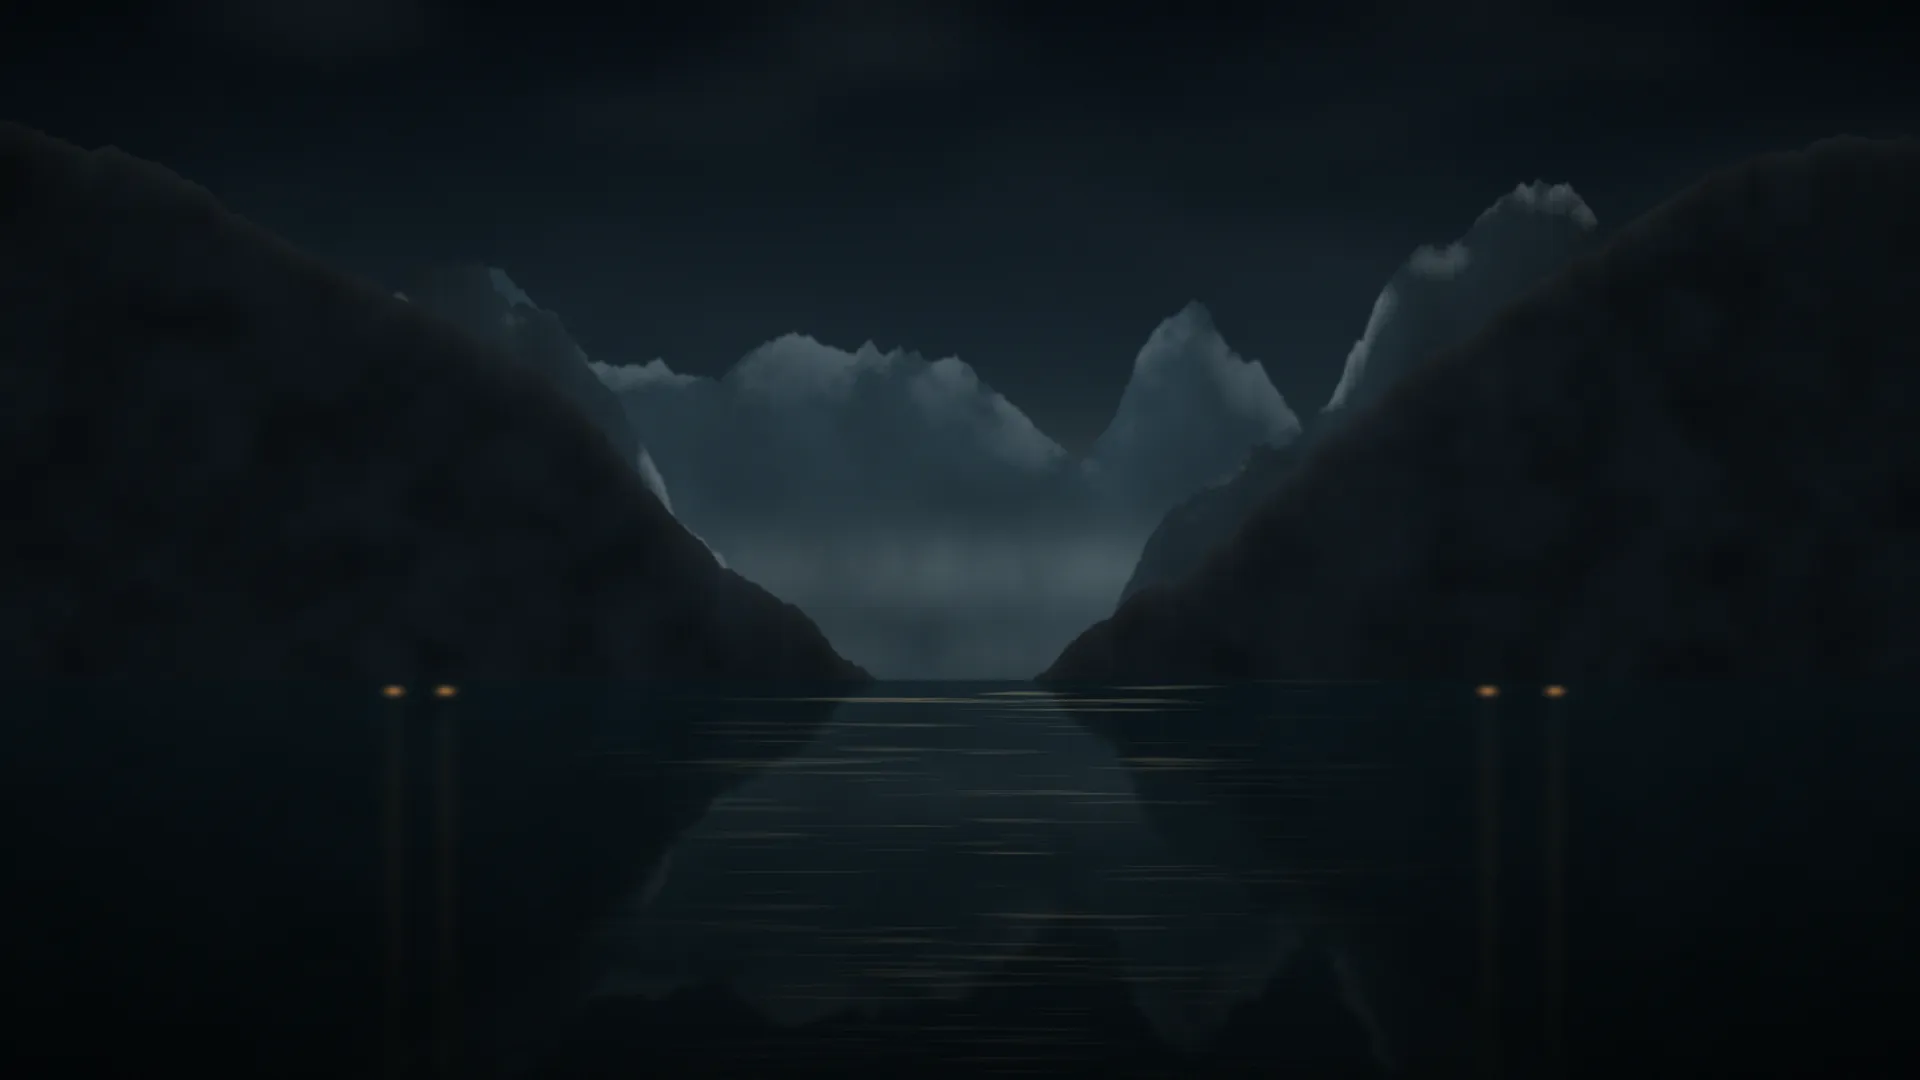
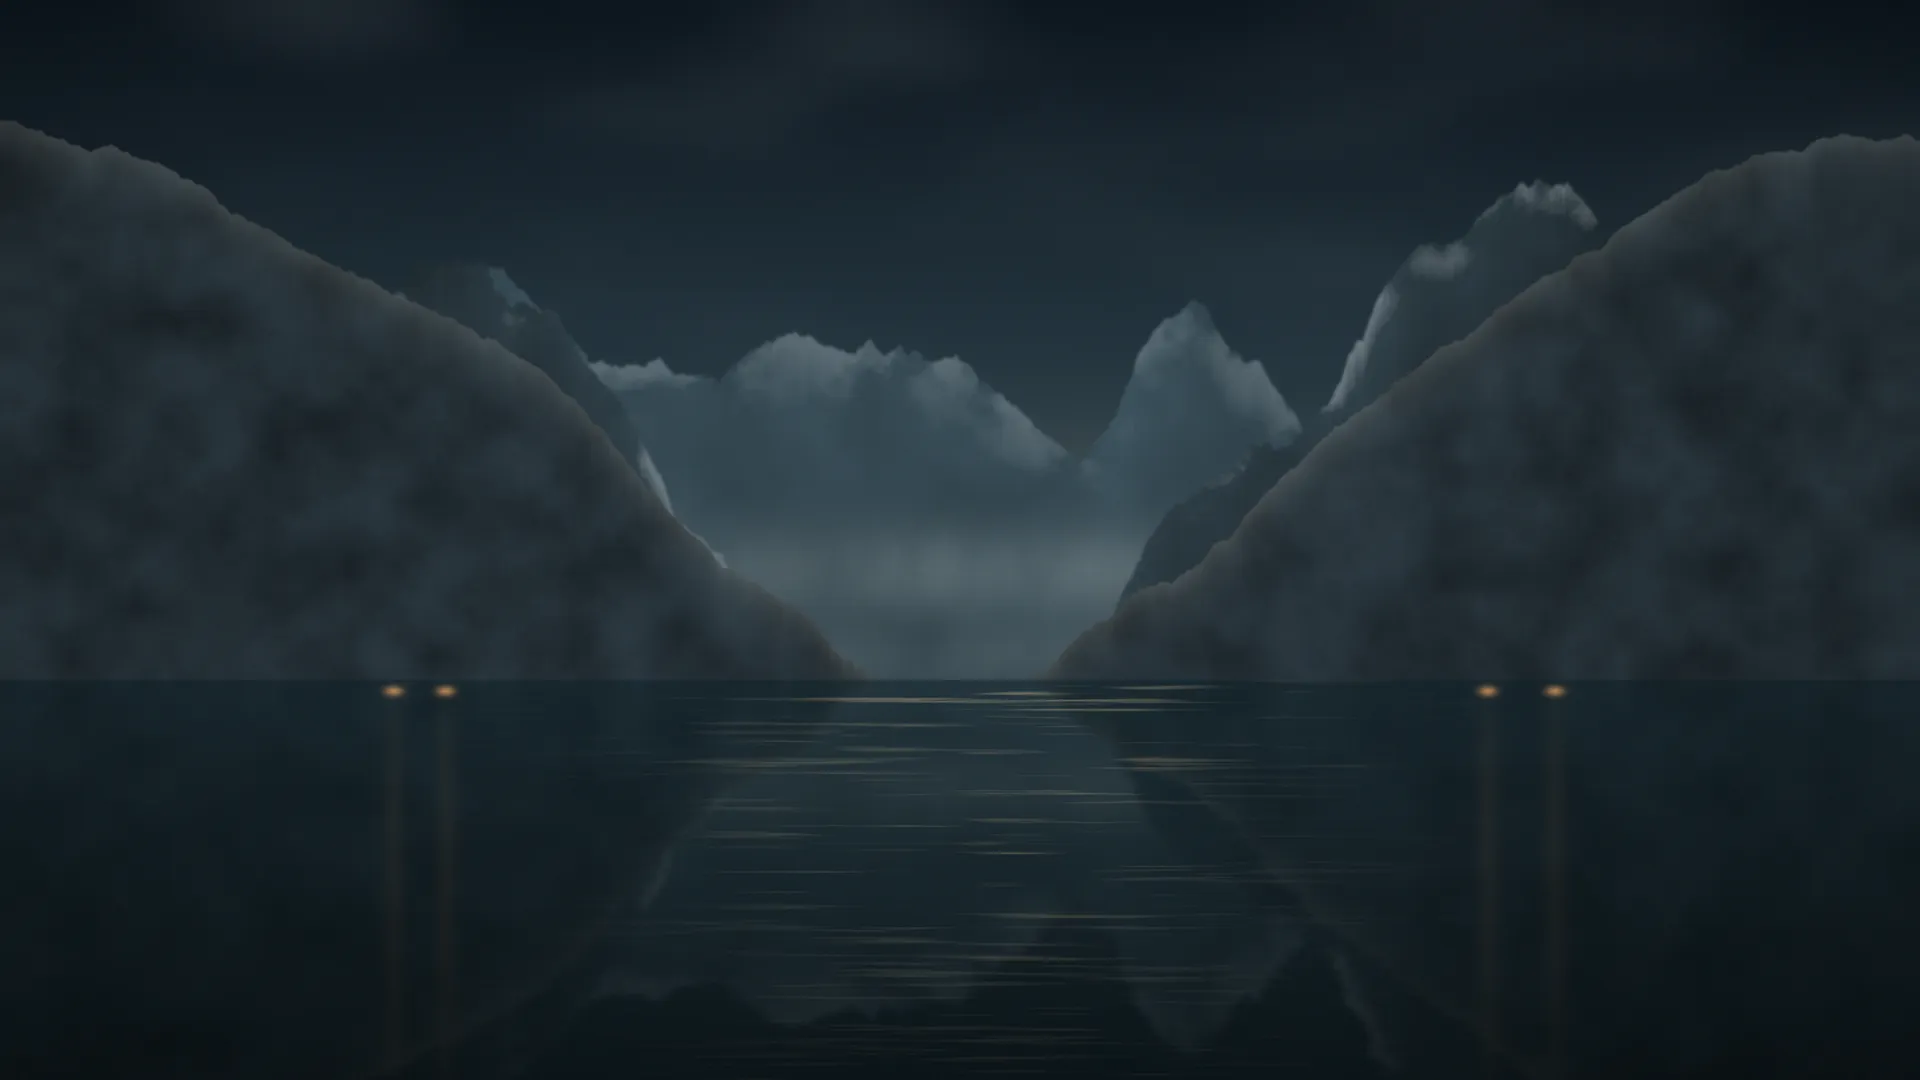
Brighten the fjord backdrop assets

diff --git a/scripts/art/generate-fjord.py b/scripts/art/generate-fjord.py
@@ -71,7 +71,7 @@ for side,seed in ((0,31),(1,41)):
     mask=(y>=np.minimum(ridge,horizon+0.03)[None,:]).astype(np.float32)
     tex=fbm2d(H,W,7,seed,sx=9,sy=5)
     rim=np.exp(-np.clip(y-ridge[None,:],0,1)/0.02)*0.6
-    col=np.array([14,20,25])*(0.7+0.7*tex[...,None])+np.array([60,62,58])*rim[...,None]*0.5
+    col=np.array([24,33,39])*(0.65+0.8*tex[...,None])+np.array([88,84,72])*rim[...,None]*0.55
     m=np.asarray(Image.fromarray((mask*255).astype(np.uint8)).filter(ImageFilter.GaussianBlur(1)),np.float32)[...,None]/255
     img=img*(1-m)+col*m
 # water
@@ -95,8 +95,9 @@ for cx in (0.205,0.232,0.775,0.81):
     streak=np.exp(-((x-cx)**2/0.00003))*np.clip((y-horizon)/0.25,0,1)*(y>horizon)*np.exp(-(y-horizon)/0.12)*0.35
     img=img+(gx+streak)[...,None]*np.array([255,150,60])*0.6
 # vignette + grain
-v=1-0.65*(((x-0.5)/0.75)**2+((y-0.45)/0.9)**2)
+v=1-0.42*(((x-0.5)/0.75)**2+((y-0.45)/0.9)**2)
 img=img*np.clip(v,0.25,1)[...,None]
+img=255*np.clip(img/255,0,1)**0.82
 img+=rng.normal(0,2.2,img.shape)
 out=Image.fromarray(np.clip(img,0,255).astype(np.uint8))
 OUT='src/assets/backdrop'

diff --git a/README.md b/README.md
@@ -37,8 +37,8 @@ sunk, and ships lost.
 ## Visual assets
 
 The fjord backdrop is original procedural art generated with fixed seeds by
-`scripts/art/generate-fjord.py`, without source imagery. It is supplied as 1920px AVIF (12,156
-bytes) with WebP fallback (15,484 bytes), and 960px AVIF (5,002 bytes) with WebP fallback (5,510
+`scripts/art/generate-fjord.py`, without source imagery. It is supplied as 1920px AVIF (16,413
+bytes) with WebP fallback (19,462 bytes), and 960px AVIF (6,839 bytes) with WebP fallback (7,518
 bytes). The raven emblem is a hand-authored inline SVG inspired by the historical Viking raven
 banner.
 
